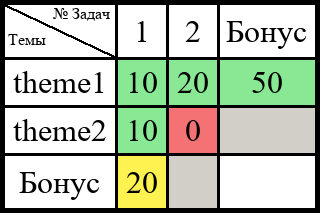
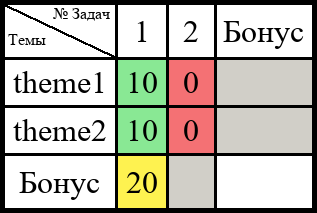
added results in bottom right cell with bad code. Need to rewrite

diff --git a/graphic_environment/table_drawer.py b/graphic_environment/table_drawer.py
@@ -5,8 +5,9 @@ from graphic_environment.conf import RED_TAGS, GREEN_TAGS, GREY_TAGS
 
 
 class TableDrawer:
+    # TODO remove do_results - bad code
     @staticmethod
-    def draw_table(board, font_size, path_to_pic, color_matrix=None, double_cells=None):
+    def draw_table(board, font_size, path_to_pic, color_matrix=None, double_cells=None, results=None):
         # calculates the width and height of image
         params = TableDrawer.board_params(board, font_size, double_cells)
         x_size = len(params[0])
@@ -80,9 +81,26 @@ class TableDrawer:
 
         TableDrawer.post_print(draw, font_size // 2, params, double_cells)
 
+        if results is not None:
+            small_fnt = ImageFont.truetype('times.ttf', font_size // 3)
+            l_x, t_y, r_x, b_y = TableDrawer.get_cell_corners(x_size - 1, y_size - 1, params)
+            width, height = r_x - l_x, b_y - t_y
+            small_seed = (l_x - 1 + width / 6, t_y - 1 + height / 6)
+            big_seed = (l_x - 1 + width * 3 / 5, t_y - 1 + height / 2)
+            draw.text(small_seed, 'Всего', font=small_fnt, fill=0, anchor='mm')
+            draw.text(big_seed, str(results), font=fnt, fill=0, anchor='mm')
+
         # img.show()
         img.save(path_to_pic, 'PNG')
         return path_to_pic
+
+    # TODO make this work
+    @staticmethod
+    def print_text(draw: ImageDraw, box, font_size, text_params, fill=0, anchor='mm'):
+        if type(text_params) is tuple:
+            for word_params in text_params:
+                word = str(word_params[0])
+                w_fnt_size = word_params[1]
 
     @staticmethod
     def post_print(draw, font_size, params, double_cells=None):
@@ -94,8 +112,8 @@ class TableDrawer:
             word_bot, word_top = d_cell[2], d_cell[3]
             l_x, t_y, r_x, b_y = TableDrawer.get_cell_corners(c_x, c_y, params)
             draw.line((l_x, t_y, r_x, b_y), fill=0, width=INLINE_WIDTH)
-            bot_seed = ((r_x - l_x) / 4, (b_y - t_y) * 3 / 4)
-            top_seed = ((r_x - l_x) * 3 / 4, (b_y - t_y) / 4)
+            bot_seed = (l_x - 1 + (r_x - l_x) / 4, t_y - 1 + (b_y - t_y) * 3 / 4)
+            top_seed = (l_x - 1 + (r_x - l_x) * 3 / 4, t_y - 1 + (b_y - t_y) / 4)
             draw.text(bot_seed, str(word_bot), font=fnt, fill=0, anchor='mm')
             draw.text(top_seed, str(word_top), font=fnt, fill=0, anchor='mm')
 
@@ -144,10 +162,10 @@ class TableDrawer:
         for x in range(x_len):
             max_y = fnt.getbbox(SMALLEST_STRING)[3]
             for y in range(y_len):
-                if double_matrix[y][x] != '':
-                    word_size = double_matrix[y][x][1]
+                if double_matrix[x][y] != '':
+                    word_size = double_matrix[x][y][1]
                 else:
-                    word = str(board[y][x])
+                    word = str(board[x][y])
                     word_size = fnt.getbbox(word.lower())[3]
                 if word_size > max_y:
                     max_y = word_size
@@ -169,6 +187,21 @@ class TableDrawer:
             params[1][x] += 2 * int(font_size // 4)
 
         return params
+
+    # TODO make this work
+    @staticmethod
+    def get_box_size(text_params, font_size):
+        width, height = 0, 0
+        x_segments = []
+        y_segments = []
+        for word_params in text_params:
+            x_segment, y_segment = [], []
+            word = str(word_params[0])
+            l_x, t_y, r_x, b_y = word_params[1]
+            fnt_scale = word_params[2]
+            anchor = word_params[3]
+            fnt = ImageFont.truetype('times.ttf', font_size / fnt_scale)
+            box = fnt.getbbox(word)
 
     # default coloring - colors in green, red or gey and works only for int
     # >0 - green, ==0 - grey, <0 - red, else - grey

diff --git a/abaka/abaka_cls.py b/abaka/abaka_cls.py
@@ -1,4 +1,4 @@
-from abaka.conf import PATH, USER_PATH, TABLE_NAME
+from abaka.conf import PATH, TABLE_NAME
 from graphic_environment.table_drawer import TableDrawer
 from collections import defaultdict
 import codecs
@@ -264,7 +264,7 @@ class StateMachine:
         ok, msg = self.players[player_id].my_point()
         return (ok, msg)
 
-    def res_table(self, player_id, fnt_size=32, path_to_pic='default'):
+    def res_table(self, player_id, fnt_size=32, path_to_pic=None):
         if player_id not in self.players:
             return (False, "Нет такого игрока")
         if self.players[player_id].current_tour is None:
@@ -279,6 +279,7 @@ class StateMachine:
             themes[tour.themes[x]] = x + 1
         failed_tasks = self.players[player_id].tours[tour.name][2]
         successful_tasks = self.players[player_id].tours[tour.name][3]
+        points = self.players[player_id].my_point()[1]
         gotten_bonuses = self.players[player_id].gotten_bonuses
         board = [['' for i in range(y_size + 2)] for j in range(x_size + 2)]
         color_matrix = [['' for i in range(y_size + 2)] for j in range(x_size + 2)]
@@ -336,9 +337,9 @@ class StateMachine:
                 else:
                     color_matrix[x_size + 1][column] = 'green'
 
-        if path_to_pic == 'default':
-            path_to_pic = USER_PATH + PATH + TABLE_NAME
-        return TableDrawer.draw_table(board, fnt_size, path_to_pic, color_matrix, double_cells)
+        if path_to_pic is None:
+            path_to_pic = PATH + TABLE_NAME
+        return TableDrawer.draw_table(board, fnt_size, path_to_pic, color_matrix, double_cells, points)
 
     def get_sorted_res(self):
         tour_names = self.tours.keys()
